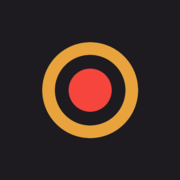
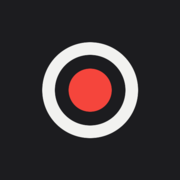
fix(recorder): stop MP4 falling back to WebM on mic encoder configs
Recording kept dropping to WebM with "EncodingError: The given encoder
configuration is not supported by the encoder."

Two gaps, both on the audio side. Video was never the problem: verified
in Chrome that avc1 Baseline L3.0 through High L5.2 all start fine at
720p, 1080p and 1440p, and at odd dimensions.

1. The proactive guard read an unknown mic rate as safe, because it
   required the rate to be truthy before testing it. When
   getSettings().sampleRate comes back undefined the raw track went
   straight to the AAC encoder. Unknown now counts as unsafe.
2. Nothing recovered when the encoder rejected the config anyway. The
   recorder now rebuilds just the audio at 48 kHz and retries MP4 once
   before falling back to WebM, so the screen capture survives and the
   file stays MP4.

Also switches the palette to monochrome: neutral graphite ramp, light
"lit surface" as the action colour, and REC red kept as the only hue,
semantic only (recording and destructive). App icon regenerated to match.

Changed region(s): [[0.2222, 0.2222, 0.7778, 0.7778]]

diff --git a/src/hooks/useRecorder.ts b/src/hooks/useRecorder.ts
@@ -234,6 +234,7 @@ export function useRecorder(): UseRecorderReturn {
   // copied console line, which is why past reports never said what failed.
   const recorderErrorDetailRef = useRef<string>('');
   const retriedWebmRef = useRef(false);
+  const retriedResampleRef = useRef(false);
   const autoResultRef = useRef<StopResult | null>(null);
 
   const stopAllStreams = useCallback(() => {
@@ -291,6 +292,7 @@ export function useRecorder(): UseRecorderReturn {
       cancelledRef.current = false;
       recorderErrorRef.current = false;
       retriedWebmRef.current = false;
+      retriedResampleRef.current = false;
       autoResultRef.current = null;
       setState('preparing');
       try {
@@ -399,8 +401,12 @@ export function useRecorder(): UseRecorderReturn {
         // failed 6/6 in Chrome 154, the same track resampled to 48 kHz passed
         // 6/6. So off-spec mic rates go through Web Audio at 48 kHz.
         const micRate = micTrack?.getSettings().sampleRate;
+        // Unknown rate counts as unsafe. getSettings().sampleRate can come
+        // back undefined, and the old `!!micRate &&` guard then read that as
+        // "fine" and fed the raw track to the AAC encoder — exactly the case
+        // that fails with "the given encoder configuration is not supported".
         const needsResample =
-          !!micTrack && !!micRate && !AAC_SAFE_SAMPLE_RATES.includes(micRate);
+          !!micTrack && !(micRate && AAC_SAFE_SAMPLE_RATES.includes(micRate));
         if (needsResample) {
           console.warn(
             `[recorder] mic runs at ${micRate} Hz, which the MP4/AAC encoder rejects; resampling to 48 kHz`
@@ -643,6 +649,60 @@ export function useRecorder(): UseRecorderReturn {
               //    retry while there is nothing worth keeping.
               const errorCameLate =
                 blob.size > 0 && durationMs > RETRY_ONLY_WITHIN_MS;
+              // Before giving up on MP4, try it once more with the audio
+              // rebuilt at 48 kHz. Chrome's AAC encoder rejects some mic
+              // configurations outright, and the rate is not always knowable
+              // up front, so the proactive check above cannot catch every
+              // case. Swapping only the audio keeps the screen capture alive.
+              if (
+                recorderErrorRef.current &&
+                !retriedResampleRef.current &&
+                !errorCameLate &&
+                effectiveMime.includes('mp4') &&
+                combined.getAudioTracks().length > 0
+              ) {
+                recorderErrorRef.current = false;
+                retriedResampleRef.current = true;
+                clearBuffer();
+                try {
+                  const ctx = new AudioContext({ sampleRate: 48000 });
+                  audioCtxRef.current?.close().catch(() => {});
+                  audioCtxRef.current = ctx;
+                  const dest = ctx.createMediaStreamDestination();
+                  const dispAudio = displayMS.getAudioTracks();
+                  if (dispAudio.length > 0) {
+                    ctx
+                      .createMediaStreamSource(new MediaStream([dispAudio[0]]))
+                      .connect(dest);
+                  }
+                  if (micStreamRef.current) {
+                    const g = ctx.createGain();
+                    g.gain.value = Math.max(0, micGain);
+                    ctx
+                      .createMediaStreamSource(micStreamRef.current)
+                      .connect(g)
+                      .connect(dest);
+                  }
+                  const fresh = dest.stream.getAudioTracks()[0];
+                  if (fresh) {
+                    combined.getAudioTracks().forEach((t) => combined.removeTrack(t));
+                    combined.addTrack(fresh);
+                    console.warn(
+                      '[recorder] MP4 encoder rejected the audio config ' +
+                        `(${recorderErrorDetailRef.current}); retrying MP4 at 48 kHz`
+                    );
+                    startedAtRef.current = Date.now();
+                    pausedAccumRef.current = 0;
+                    pausedAtRef.current = null;
+                    setElapsedMs(0);
+                    armAndStart(candidates);
+                    return;
+                  }
+                } catch (e) {
+                  console.error('[recorder] 48 kHz retry failed:', e);
+                }
+              }
+
               if (
                 recorderErrorRef.current &&
                 !retriedWebmRef.current &&

diff --git a/tailwind.config.js b/tailwind.config.js
@@ -12,26 +12,29 @@ export default {
     extend: {
       colors: {
         bg: {
-          DEFAULT: '#111013', // warm near-black, lehce fialovohnědý nádech
-          elev: '#18171B',
-          card: '#1D1B20',
-          border: '#2A272E',
+          DEFAULT: '#0F0F10', // neutrální grafit, ne čerň
+          elev: '#161618',
+          card: '#1C1C1F',
+          border: '#2B2B2F',
         },
         text: {
-          primary: '#EDEAE4', // teplá papírová bílá
-          secondary: '#9B96A0',
-          muted: '#6C6772',
+          primary: '#F2F2F0',
+          secondary: '#9A9A9E',
+          muted: '#68686E',
         },
-        // Akční barva: wolframová jantarová (studiové osvětlení)
+        // Akční barva je v monochromu světlo, ne odstín: rozsvícená plocha.
         accent: {
-          DEFAULT: '#E8A33D',
-          hover: '#F2B45C',
-          subtle: 'rgba(232, 163, 61, 0.13)',
+          DEFAULT: '#F2F2F0',
+          hover: '#FAFAF8',
+          subtle: 'rgba(242, 242, 240, 0.10)',
         },
-        // REC červená — nahrávání + destruktivní akce (tally light)
+        // Jediná barva v celé paletě. Výhradně sémanticky: nahrávání
+        // (tally light) a destruktivní akce. Nikdy jako dekorace.
         danger: '#F5453C',
-        success: '#4FBF67',
+        // V monochromu se úspěch značí světlem, ne zelenou.
+        success: '#F2F2F0',
       },
+
       fontFamily: {
         display: [
           '"Bricolage Grotesque Variable"',
@@ -61,7 +64,7 @@ export default {
       },
       boxShadow: {
         soft: '0 4px 20px rgba(0, 0, 0, 0.45)',
-        glow: '0 0 0 1px rgba(232, 163, 61, 0.25), 0 4px 24px rgba(232, 163, 61, 0.12)',
+        glow: '0 0 0 1px rgba(242, 242, 240, 0.20), 0 4px 24px rgba(0, 0, 0, 0.55)',
         rec: '0 0 0 1px rgba(245, 69, 60, 0.35), 0 0 32px rgba(245, 69, 60, 0.25)',
       },
       animation: {

diff --git a/src/index.css b/src/index.css
@@ -18,7 +18,7 @@
     -moz-osx-font-smoothing: grayscale;
     user-select: none;
     overflow: hidden;
-    background: #111013;
+    background: #0F0F10;
   }
   input,
   textarea {
@@ -26,12 +26,12 @@
   }
   /* Viditelný focus pro klávesnici — wolframový prstenec */
   :focus-visible {
-    outline: 2px solid rgba(232, 163, 61, 0.7);
+    outline: 2px solid rgba(242, 242, 240, 0.65);
     outline-offset: 2px;
     border-radius: 6px;
   }
   ::selection {
-    background: rgba(232, 163, 61, 0.3);
+    background: rgba(242, 242, 240, 0.22);
   }
 }
 
@@ -40,10 +40,10 @@
     @apply inline-flex items-center justify-center gap-2 rounded-lg px-4 py-2 text-sm font-medium
       transition-all duration-150 disabled:opacity-40 disabled:cursor-not-allowed;
   }
-  /* Primární akce: rozsvícené wolframové tlačítko — tmavý text na jantarové */
+  /* Primární akce: rozsvícená plocha — tmavý text na světlé */
   .btn-primary {
-    @apply btn bg-accent text-[#1A1408] hover:bg-accent-hover font-semibold;
-    box-shadow: inset 0 1px 0 rgba(255, 255, 255, 0.25), 0 1px 8px rgba(232, 163, 61, 0.2);
+    @apply btn bg-accent text-[#141416] hover:bg-accent-hover font-semibold;
+    box-shadow: inset 0 -1px 0 rgba(0, 0, 0, 0.12), 0 1px 10px rgba(0, 0, 0, 0.45);
   }
   .btn-secondary {
     @apply btn bg-bg-card text-text-primary border border-bg-border hover:border-text-muted;
@@ -83,13 +83,13 @@
   background: transparent;
 }
 ::-webkit-scrollbar-thumb {
-  background: #2a272e;
+  background: #2B2B2F;
   border-radius: 8px;
   border: 2px solid transparent;
   background-clip: padding-box;
 }
 ::-webkit-scrollbar-thumb:hover {
-  background: #3d3944;
+  background: #3C3C42;
   background-clip: padding-box;
 }
 

diff --git a/src/components/UpdateBanner.tsx b/src/components/UpdateBanner.tsx
@@ -11,7 +11,7 @@ export function UpdateBanner() {
 
   return (
     <div className="fixed top-4 left-1/2 -translate-x-1/2 z-[90] animate-fade-in">
-      <div className="flex items-center gap-3 bg-accent text-[#1A1408] rounded-full pl-4 pr-2 py-2 shadow-glow">
+      <div className="flex items-center gap-3 bg-accent text-[#141416] rounded-full pl-4 pr-2 py-2 shadow-glow">
         <Sparkles className="w-4 h-4" />
         <div className="text-sm font-medium">
           Nová verze připravena{' '}
@@ -21,13 +21,13 @@ export function UpdateBanner() {
         </div>
         <button
           onClick={() => window.location.reload()}
-          className="bg-[#1A1408]/12 hover:bg-[#1A1408]/22 text-[#1A1408] text-xs font-semibold px-3 py-1 rounded-full inline-flex items-center gap-1.5 transition-colors"
+          className="bg-[#141416]/12 hover:bg-[#141416]/22 text-[#141416] text-xs font-semibold px-3 py-1 rounded-full inline-flex items-center gap-1.5 transition-colors"
         >
           <RefreshCw className="w-3.5 h-3.5" /> Aktualizovat
         </button>
         <button
           onClick={() => setDismissed(true)}
-          className="text-[#1A1408]/60 hover:text-[#1A1408] p-1"
+          className="text-[#141416]/60 hover:text-[#141416] p-1"
           title="Skrýt"
         >
           <X className="w-4 h-4" />

diff --git a/src/components/Library.tsx b/src/components/Library.tsx
@@ -494,7 +494,7 @@ function RecordingCard({
             </span>
           ) : (
             <span
-              className="absolute top-2 left-2 px-2 py-0.5 rounded-md bg-accent text-[#1A1408] text-[10px] font-semibold inline-flex items-center gap-1"
+              className="absolute top-2 left-2 px-2 py-0.5 rounded-md bg-accent text-[#141416] text-[10px] font-semibold inline-flex items-center gap-1"
               title="Na Bunny Stream, připraveno k odeslání"
             >
               <Cloud className="w-3 h-3" /> Bunny
@@ -507,7 +507,7 @@ function RecordingCard({
           </span>
         )}
         {hovering && (
-          <span className="absolute bottom-2 left-2 px-2 py-0.5 rounded-md bg-accent text-[#1A1408] text-[10px] font-semibold inline-flex items-center gap-1 animate-fade-in">
+          <span className="absolute bottom-2 left-2 px-2 py-0.5 rounded-md bg-accent text-[#141416] text-[10px] font-semibold inline-flex items-center gap-1 animate-fade-in">
             <Play className="w-2.5 h-2.5 fill-current" /> náhled
           </span>
         )}

diff --git a/index.html b/index.html
@@ -3,7 +3,7 @@
   <head>
     <meta charset="UTF-8" />
     <meta name="viewport" content="width=device-width, initial-scale=1.0, viewport-fit=cover" />
-    <meta name="theme-color" content="#111013" />
+    <meta name="theme-color" content="#0F0F10" />
     <meta name="description" content="Records By Grevo — interní nástroj pro nahrávání obrazovky, střih a sdílení videí přes Bunny Stream." />
     <meta property="og:title" content="Records By Grevo" />
     <meta property="og:description" content="Lokální screen recorder se střihem a sdílením přes vlastní Bunny Stream." />

diff --git a/src/components/Home.tsx b/src/components/Home.tsx
@@ -247,7 +247,7 @@ function Toggle({ on, onChange }: { on: boolean; onChange: (v: boolean) => void 
         className={`absolute top-0.5 w-4 h-4 rounded-full bg-[#111013] transition-all ${
           on ? 'left-[18px]' : 'left-0.5'
         }`}
-        style={{ background: on ? '#1A1408' : '#6C6772' }}
+        style={{ background: on ? '#141416' : '#6C6772' }}
       />
     </button>
   );

diff --git a/src/components/Settings.tsx b/src/components/Settings.tsx
@@ -262,7 +262,7 @@ function Toggle({ on, onChange }: { on: boolean; onChange: (v: boolean) => void 
         className={`absolute top-0.5 w-5 h-5 rounded-full transition-all ${
           on ? 'left-[18px]' : 'left-0.5'
         }`}
-        style={{ background: on ? '#1A1408' : '#6C6772' }}
+        style={{ background: on ? '#141416' : '#6C6772' }}
       />
     </button>
   );
